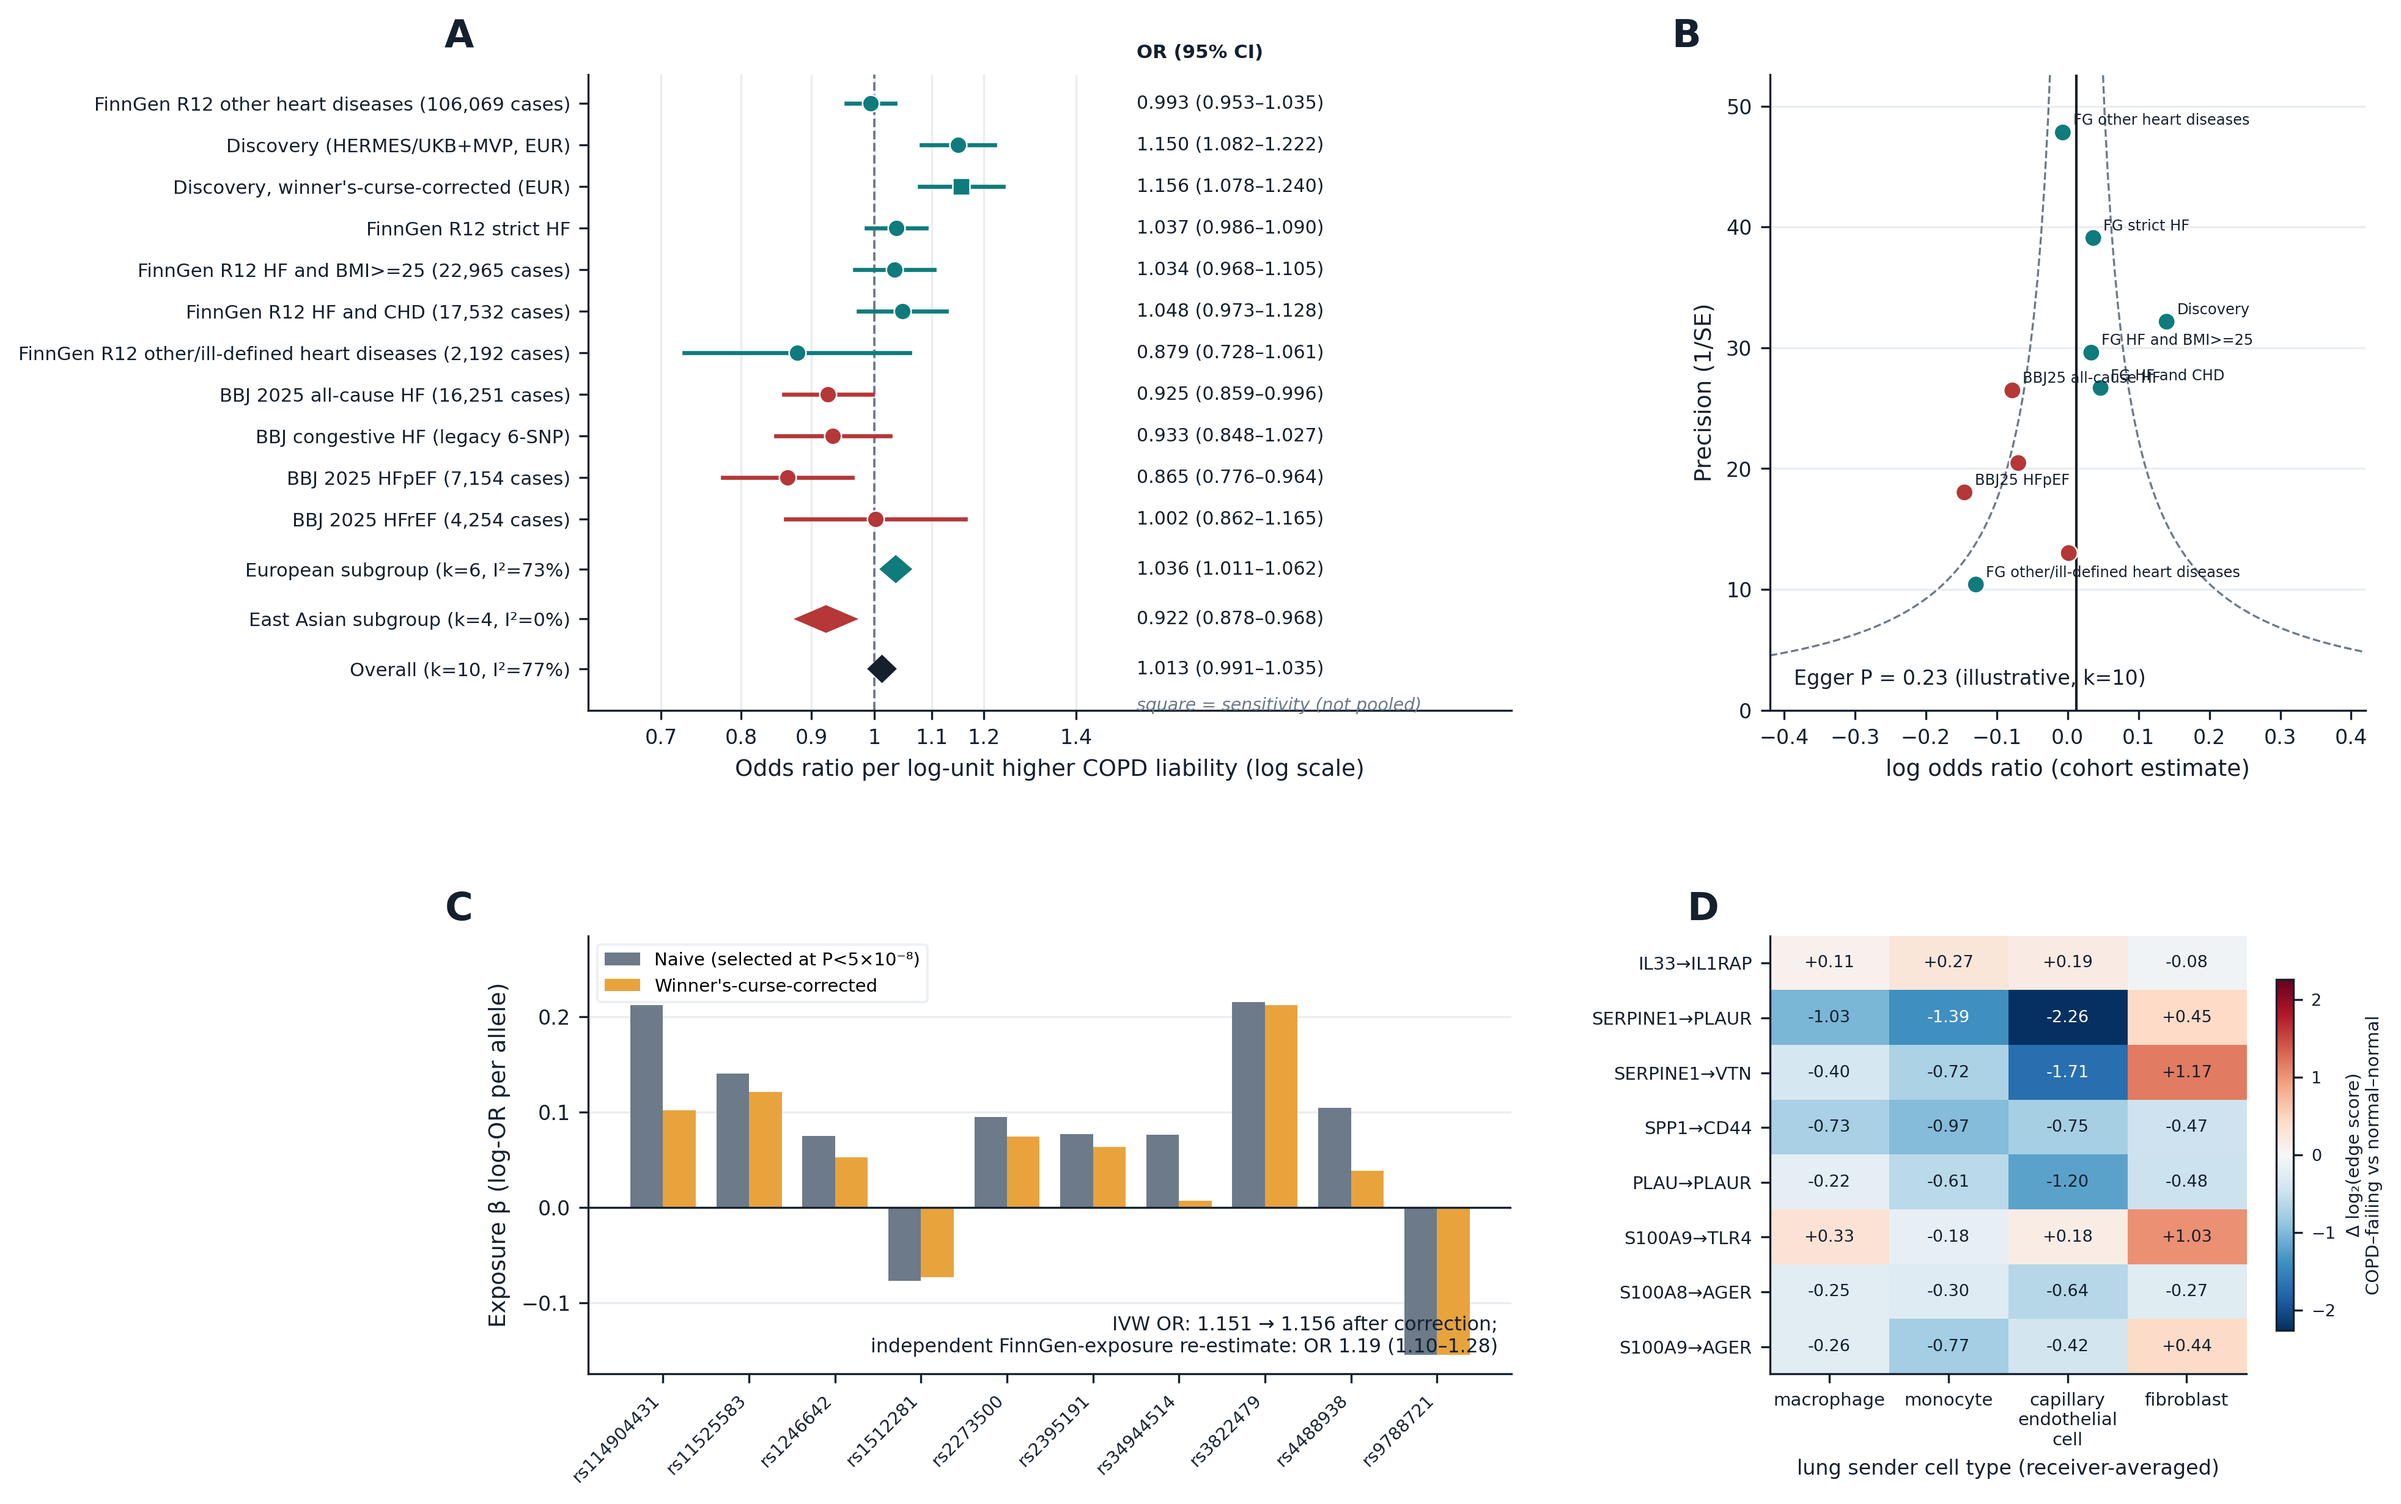
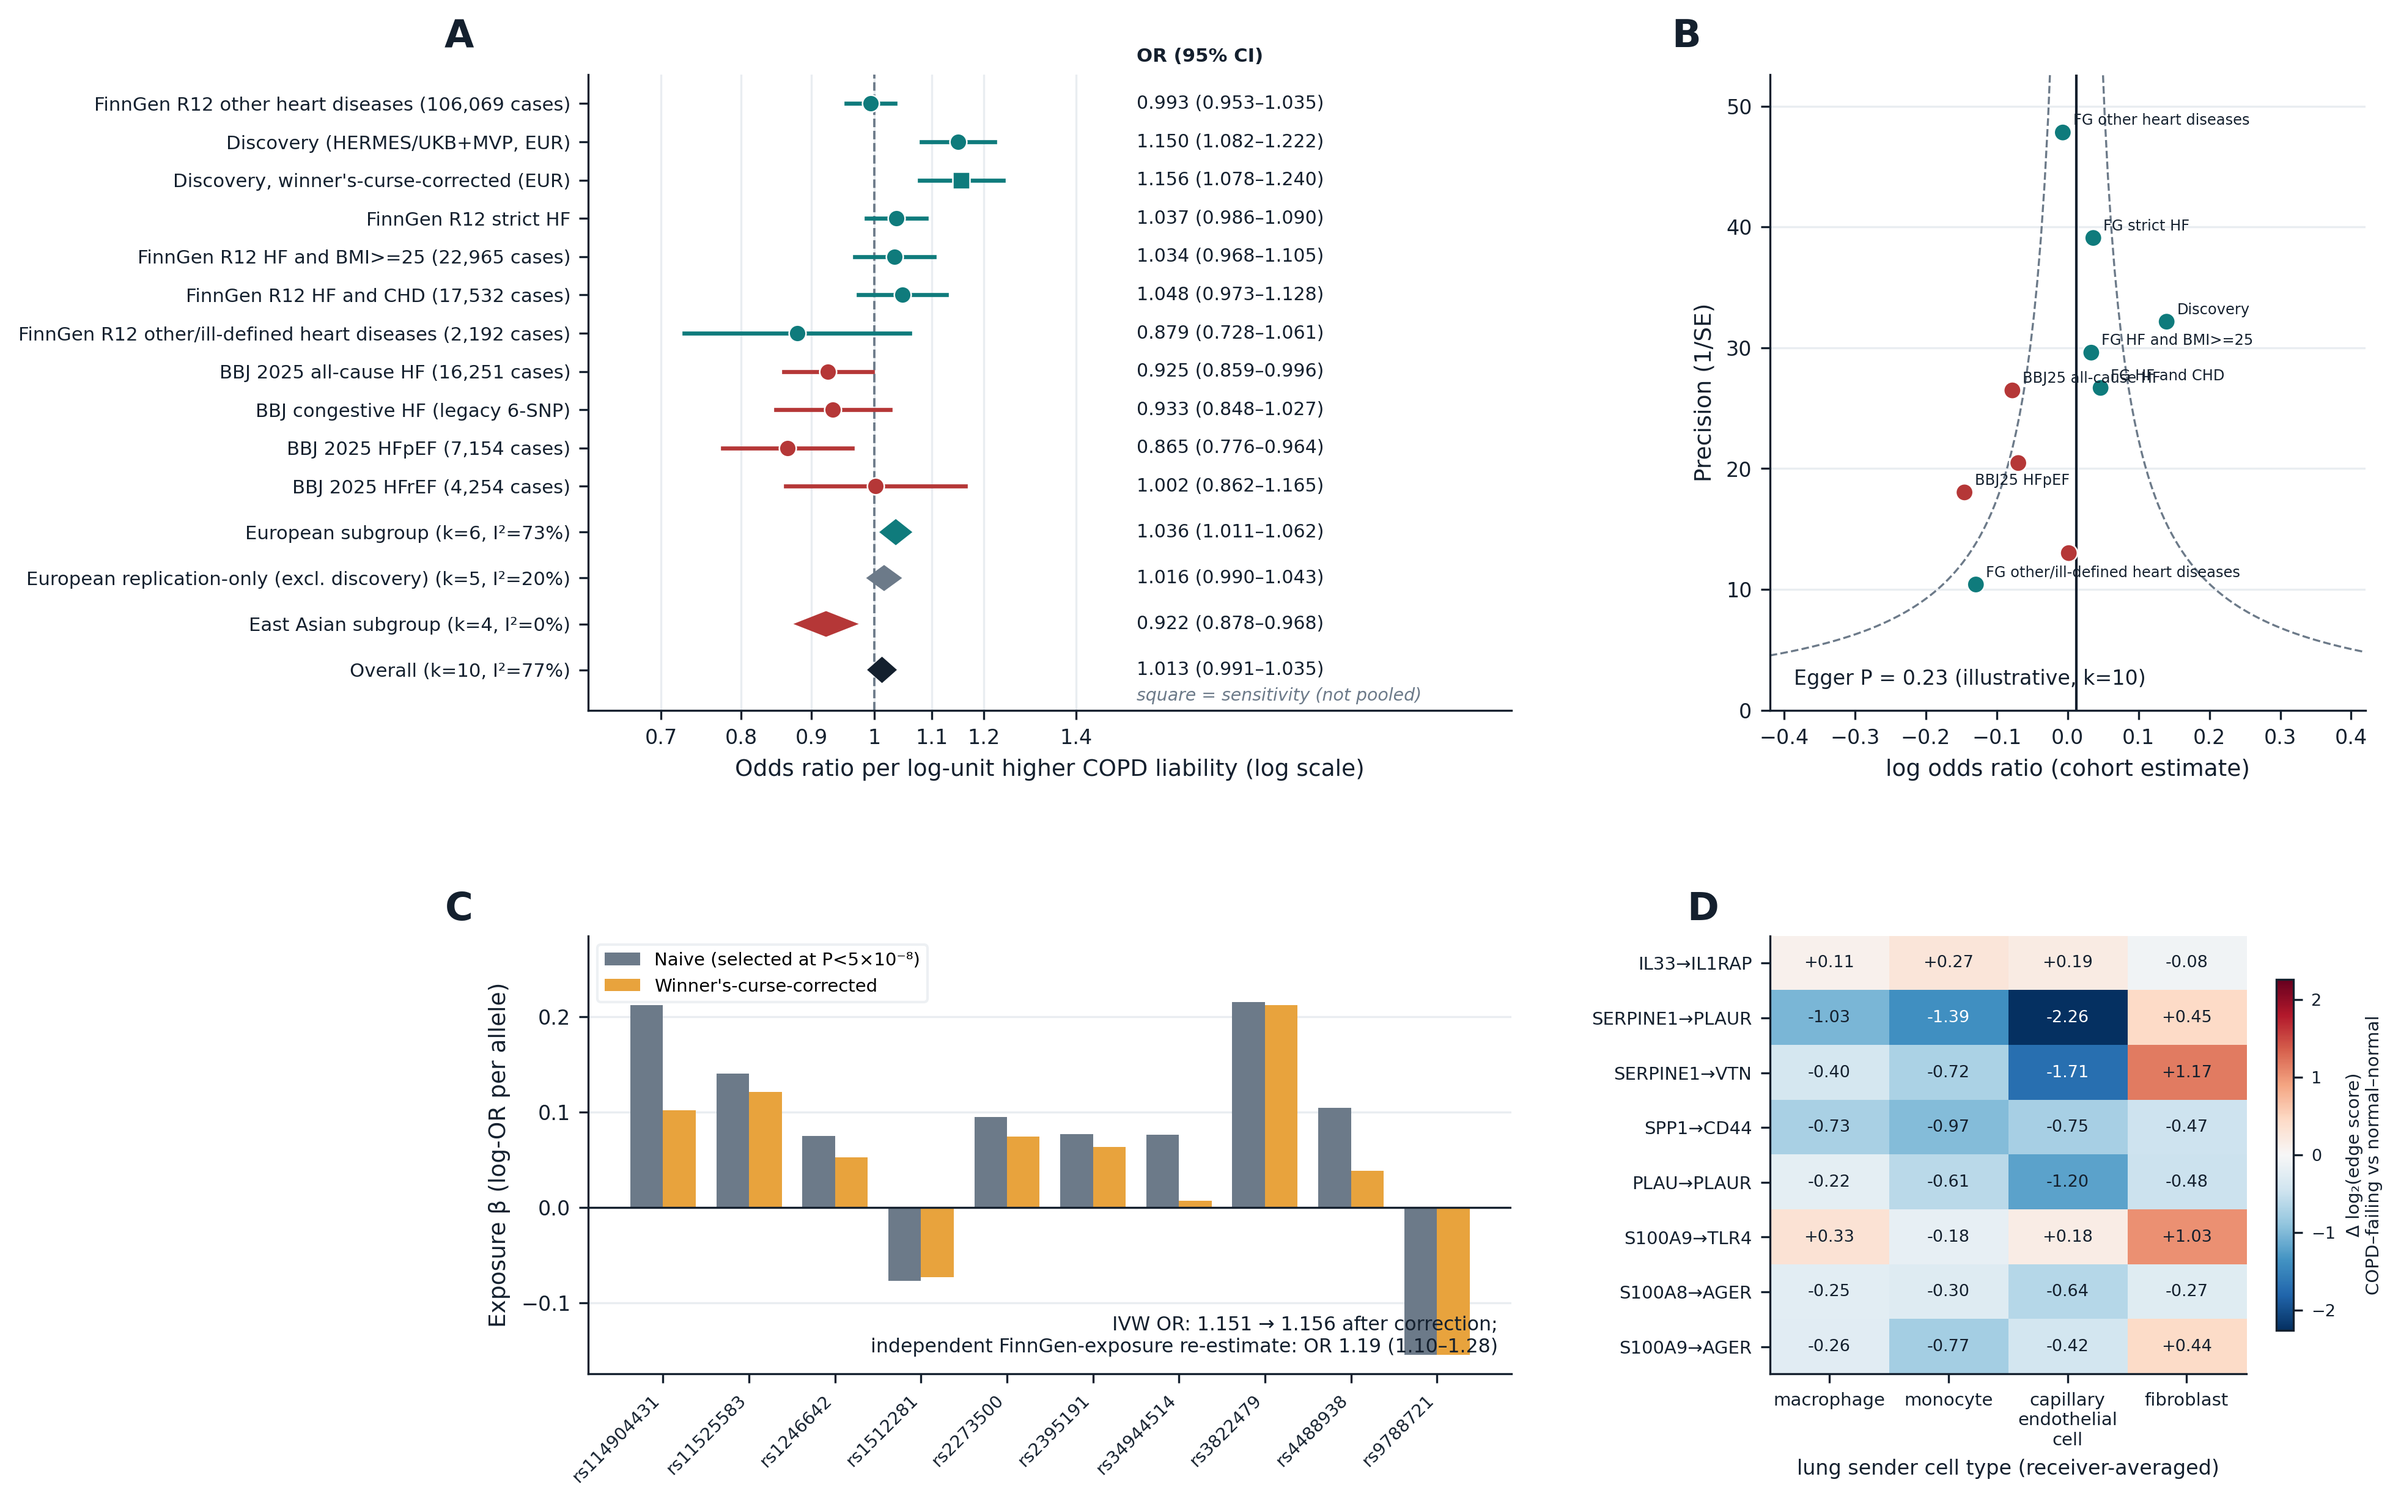
Reproducibility package v1.2.1-jtm: sync Figure 8 to final R3 version and correct Table S10 UI bounds

diff --git a/VALIDATION_ADDENDUM_elevation_round.md b/VALIDATION_ADDENDUM_elevation_round.md
@@ -67,3 +67,9 @@ Four pre-specified elevation analyses executed; two further analyses pre-registe
 9. **Formal SAP for the three pre-registered analyses** — `SAP_preregistered_analyses.md` (R1 MVP HFpEF/HFrEF MR; R2 UKB PRS→incident HF; R3 PM2.5 MR), with hypotheses, estimators, and success/failure criteria.
 
 Manuscript text revisions in round 2: abstract ancestry qualification (M2) and lung-function softening (M3); instrument-availability and portability reporting (M1); ten-estimate provenance; ancestry-mechanism decomposition in Discussion; ancestry-stratified PAF paragraph in Results; donor-frame disclosure in Methods (M7); GBD-2021 version justification in Limitations (M6); Table 1 note disambiguation; Statistics software cross-reference; edge-permutation framework in Methods/Results/Fig. 8 legend (M4).
+
+---
+
+## v1.2.1-jtm update (2026-09-05)
+
+Figure 8 in this archive was regenerated to the final manuscript revision: panel A now shows the European replication-only subgroup diamond (five FinnGen endpoints, discovery excluded; OR 1.016, 95% CI 0.990-1.043, P = 0.23, I2 = 20%) that the manuscript text and legend describe. Table S10 case-count uncertainty intervals were corrected to the audited extraction bounds (1990: 1.50 M, 95% UI 1.14-1.94 M; 2021: 3.61 M, 95% UI 2.67-4.80 M).

diff --git a/README.md b/README.md
@@ -153,3 +153,13 @@ Translational Medicine* submission (2026-09-04):
 See `VALIDATION_ADDENDUM_elevation_round.md` for the numerical cross-checks of
 this round. The Zenodo concept DOI below always resolves to the latest
 version of this archive.
+
+### v1.2.1-jtm (2026-09-05)
+
+Version v1.2.1-jtm updates the archived Figure 8 (`Figure_8_replication_
+heterogeneity_crosstalk.pdf/.png`) to the final revision that appears in the
+manuscript (panel A now includes the European replication-only diamond,
+k = 5, I² = 20%, OR 1.016 [0.990–1.043]) and corrects the Table S10 1990/2021
+case uncertainty-interval bounds (1.14–1.94 M in 1990; 2.67–4.80 M in 2021) to
+match the audited extraction (`results/t1_extract_summary.json`) and the
+manuscript text.
